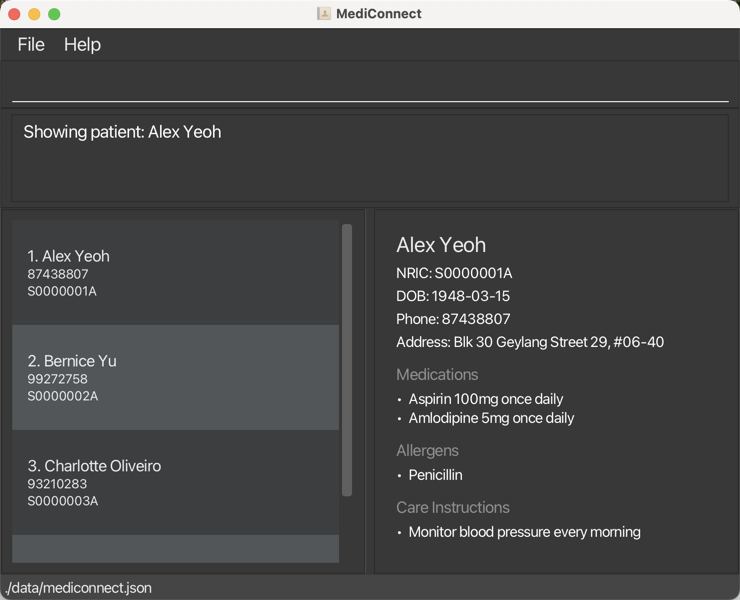
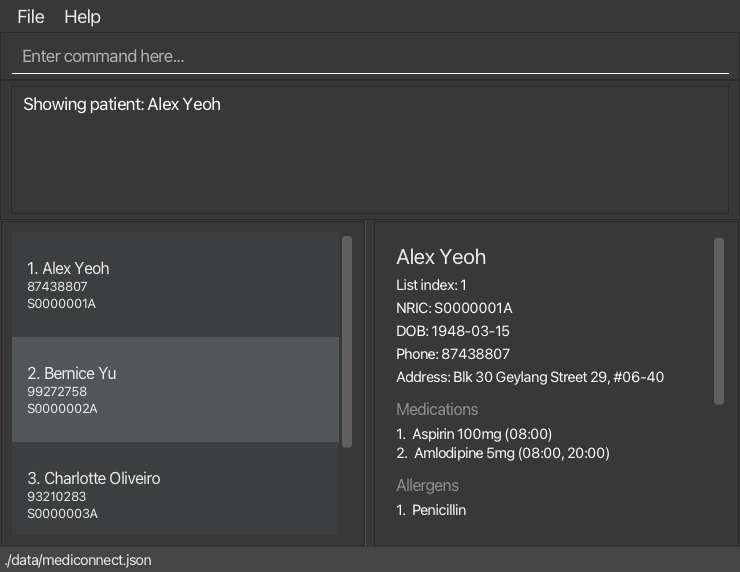
Replace the product screenshot with the current UI
Ui.png still showed the v1.3 detail panel, with bulleted entries and
medications such as "Aspirin 100mg once daily". It now shows the
current main window on the sample data after view 1: numbered entries,
medication times and the List index line. The README, the landing page
and the UG's Quick start use it.

diff --git a/docs/UserGuide.md b/docs/UserGuide.md
@@ -23,7 +23,7 @@ MediConnect is a **desktop application for managing patient records and care inf
 1. Copy the file to an empty folder. This folder will be the _home folder_ for your MediConnect data.
 
 1. Open a terminal, `cd` to that folder, and run `java -jar mediconnect.jar`.<br>
-   A GUI similar to the one below should appear in a few seconds. On first launch, the patient list is filled with sample patients so you can try out the commands.<br>
+   A GUI similar to the one below should appear in a few seconds. On first launch, the patient list is filled with sample patients so you can try out the commands. The picture shows the window after `view 1`, which shows the first patient's details on the right.<br>
    ![Ui](images/Ui.png)
 
 1. Type a command in the command box and press Enter to execute it. For example, type **`help`** and press Enter to open the help window.<br>
